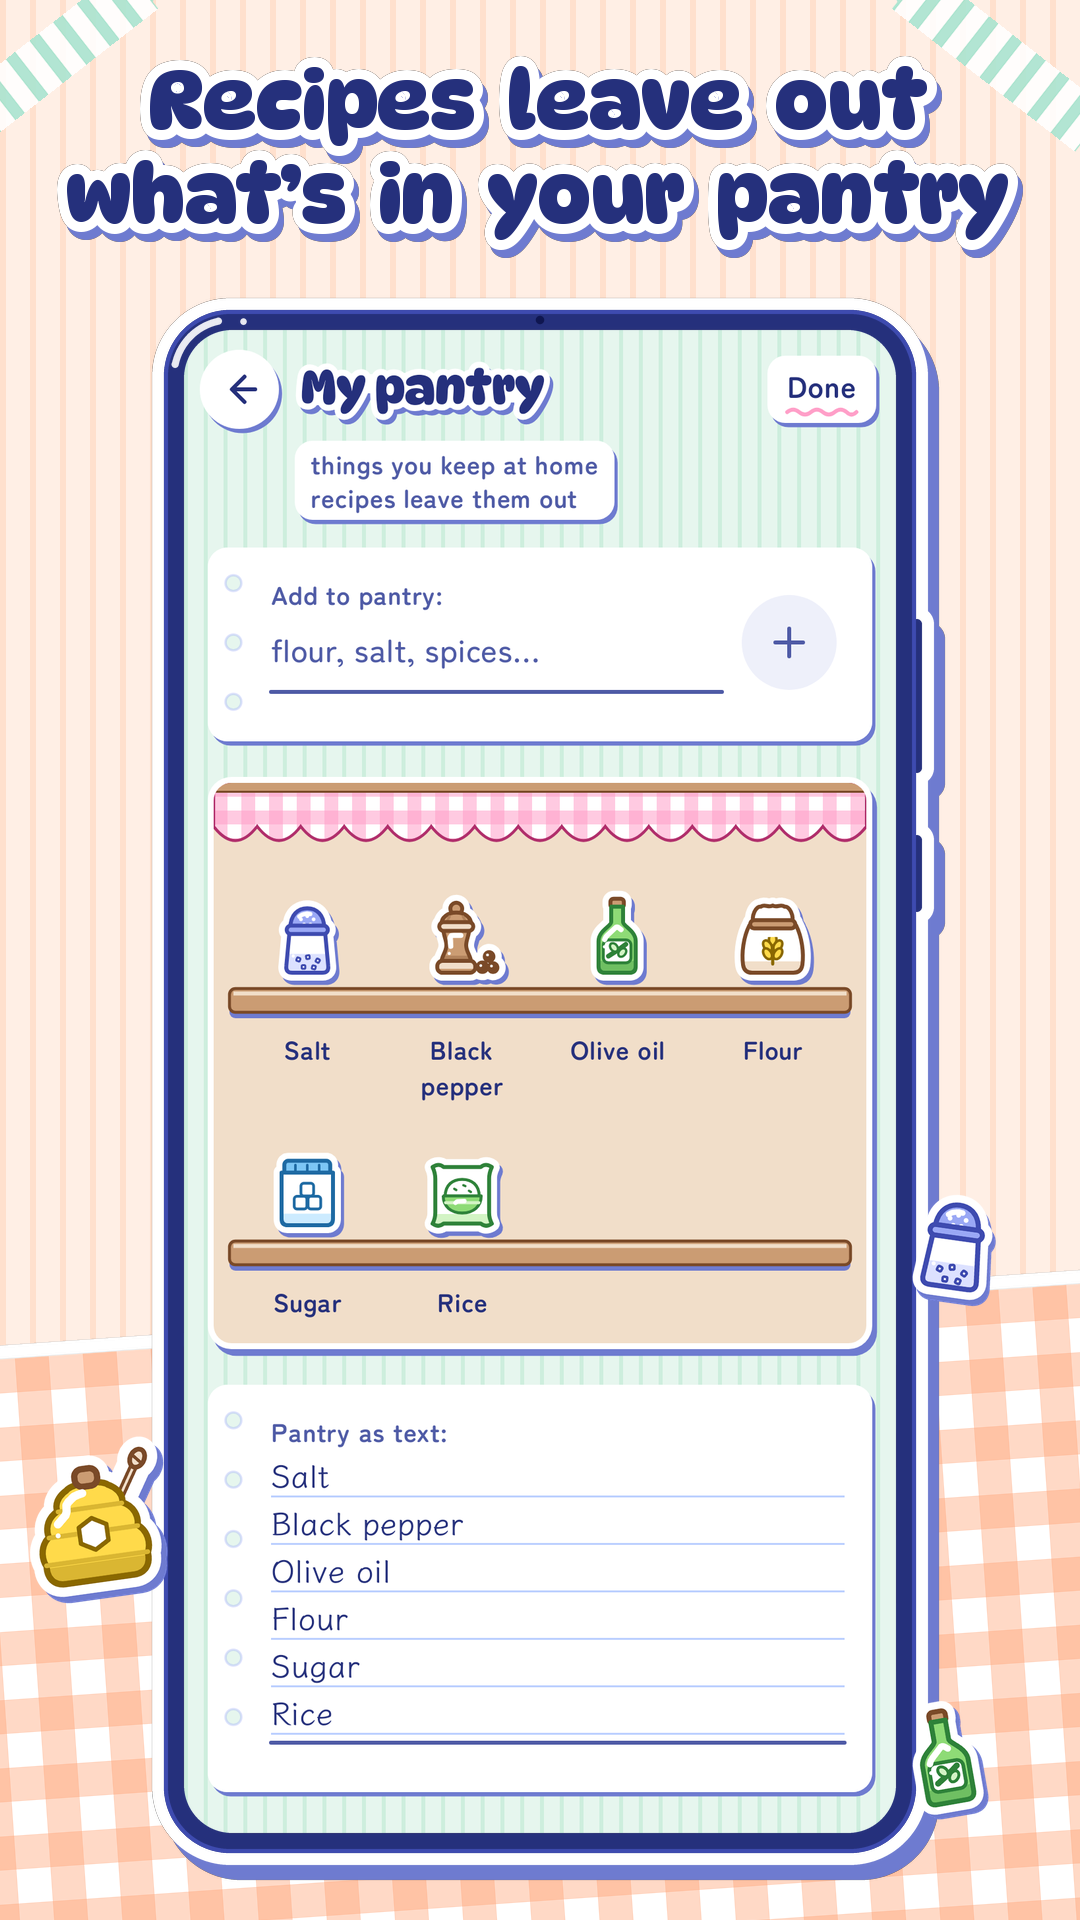
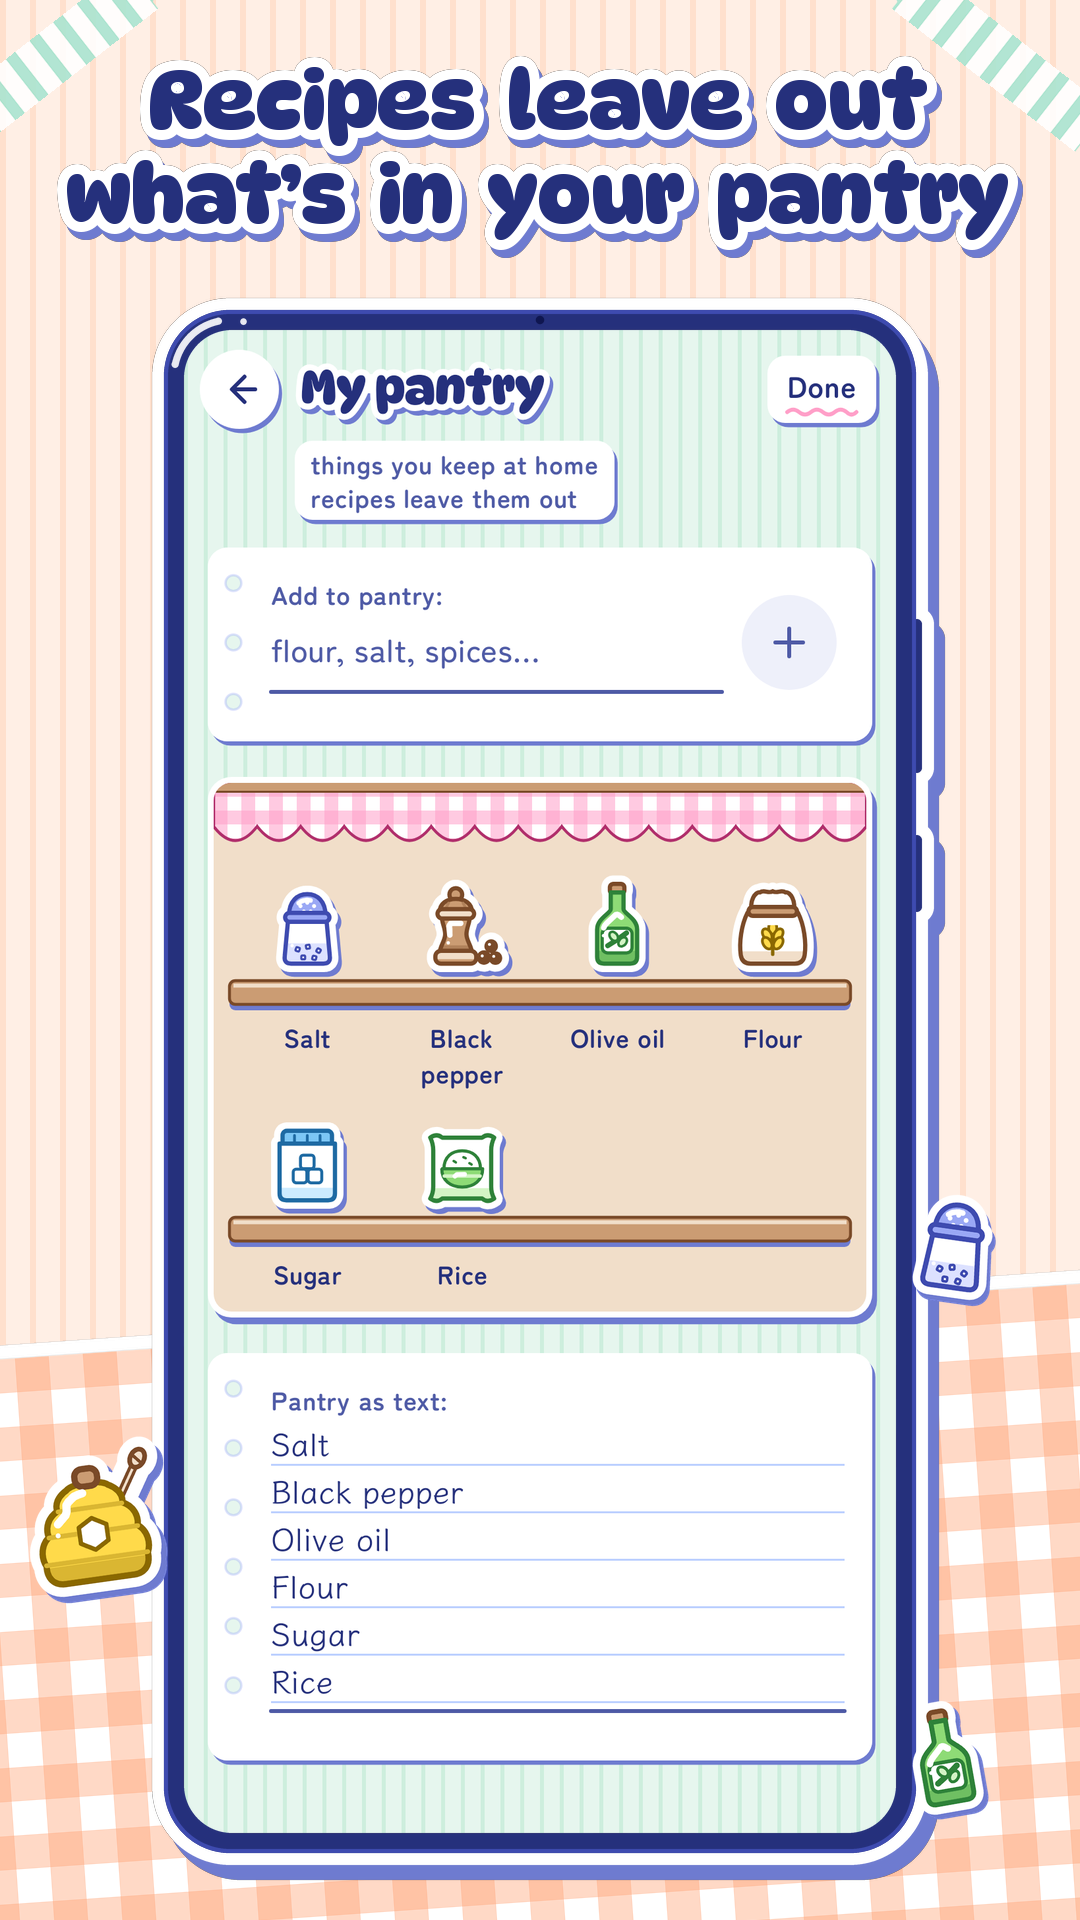
My pantry: tighter shelves, slightly bigger stickers
Cora (5 October): the shelf view left a little too much negative space. Shelf stickers go from 52 to 56 dp with 4 dp of headroom (the slot was 64 dp), the names sit 4 dp under the board (was 6) and the shelf ends 4 dp under them (was 6), so a name and the next shelf's stickers are about 12 dp apart instead of about 30. Pantry goldens and the pantry store screenshot re-recorded; spec §6.13 updated.

Claude-Session: https://claude.ai/code/session_01Vpb3GoPLjRj6tPR1LHwpfW

Changed region(s): [[0.1833, 0.4375, 0.825, 0.9375]]

diff --git a/app/src/main/kotlin/earth/cora/picnic/ui/pantry/PantryScreen.kt b/app/src/main/kotlin/earth/cora/picnic/ui/pantry/PantryScreen.kt
@@ -168,7 +168,7 @@ fun PantryRoute(vm: PantryViewModel, onBack: () -> Unit) {
 /**
  * My pantry (§6.13): the binder top (Back, "My pantry", its subtitle on a pad patch, "Done"); the "Add to pantry:" field
  * with its strawberry Add sticker button; the shelves in the JAR_SHELF basket's language (a gingham valance, wooden
- * boards, stickers standing on them at 52 dp with their names under the board, 4 per shelf, 5 from 412 dp); a tap opens
+ * boards, stickers standing on them at 56 dp with their names under the board, 4 per shelf, 5 from 412 dp); a tap opens
  * the pop card ("Take off the shelf", "Change sticker"); "Pantry as text:" (Klee One, ruled) previews the shelves as she
  * types and commits on Done or blur. Empty: a dusty shelf, the line and four suggestion chips.
  */
@@ -431,16 +431,18 @@ private fun Shelf(
     popCard: @Composable (ShelfSticker) -> Unit,
     sticker: @Composable (ShelfSticker) -> Unit,
 ) {
-    Column(Modifier.fillMaxWidth().padding(bottom = 6.dp)) {
+    // Tight (Cora, 5 October): 4 dp of headroom over a 56 dp sticker, 4 dp from the board to its names and 4 dp under
+    // them, so a name and the next shelf's stickers sit about 12 dp apart.
+    Column(Modifier.fillMaxWidth().padding(bottom = 4.dp)) {
         Row(Modifier.fillMaxWidth()) {
             for (i in 0 until perShelf) {
-                Box(Modifier.weight(1f).height(64.dp), contentAlignment = Alignment.BottomCenter) {
+                Box(Modifier.weight(1f).height(60.dp), contentAlignment = Alignment.BottomCenter) {
                     row.getOrNull(i)?.let { sticker(it) }
                 }
             }
         }
         Board()
-        Row(Modifier.fillMaxWidth().padding(top = 6.dp)) {
+        Row(Modifier.fillMaxWidth().padding(top = 4.dp)) {
             for (i in 0 until perShelf) {
                 Box(Modifier.weight(1f).padding(horizontal = 2.dp), contentAlignment = Alignment.TopCenter) {
                     val name = row.getOrNull(i)?.name
@@ -507,7 +509,7 @@ private fun Board(modifier: Modifier = Modifier) {
 }
 
 /**
- * One shelf sticker: 52 dp, standing on the board; new ones magic-appear, a name added again pops (.9 → 1.1 → 1, 400 ms).
+ * One shelf sticker: 56 dp, standing on the board; new ones magic-appear, a name added again pops (.9 → 1.1 → 1, 400 ms).
  * A tap opens the pop card; TalkBack: a button "Salt, in your pantry" with "Take off the shelf" and "Change sticker".
  */
 @Composable
@@ -550,7 +552,7 @@ private fun ShelfStickerView(
         contentAlignment = Alignment.BottomCenter,
     ) {
         MagicAppearBox(key = sticker.key, play = fresh, onPlayed = onAppeared, modifier = Modifier.graphicsLayer { scaleX = pop.value; scaleY = pop.value }) {
-            ItemIcon(sticker.icon, contentDescription = null, size = 52.dp, drawing = sticker.busy)
+            ItemIcon(sticker.icon, contentDescription = null, size = 56.dp, drawing = sticker.busy)
         }
     }
 }

diff --git a/docs/DESIGN_STICKER.md b/docs/DESIGN_STICKER.md
@@ -869,7 +869,7 @@ What she keeps at home. One pantry for the whole app (it is her kitchen, not a l
 - **Ways in**: the overflow menu ("My pantry", jar glyph, between "My store & aisles" and "Sticker album"); "Edit my pantry" on the recipe card (§4.17); the Edit sheet's toggle adds from a list row (§6.3).
 - **App bar**: Back, title "My pantry", subtitle "things you keep at home · recipes leave them out" (on a pad patch, §2), text button "Done".
 - **Add field**: an inline ruled field "Add to pantry:" with the hint "flour, salt, spices…" and a 48 dp strawberry Add sticker button; Enter adds. Commas, new lines and " and " split entries (`OfflineParser` splitting, no AI); quantities are dropped ("2 kg flour" → "Flour"); each entry is capitalised like an item name. A name already there (after `normalizeName`) is not added twice: its sticker pops on the shelf (the §6.2 pop) and the toast says "Salt is already in your pantry".
-- **The shelves**: the `JAR_SHELF` basket's language at full width: a gingham curtain valance across the top, then wooden shelves (peach-brown mid with a light top edge and a 3 dp hard shadow under each board), stickers standing on them at 52 dp with the name under each (Zen Maru 700 13 sp, two lines, centred). Four per shelf at 360 dp wide, five at 412 dp and up; shelves are added as needed and scroll with the page. Order = the order of the text (below). A new entry lands with the book's magic-appear (§8), never a flight.
+- **The shelves**: the `JAR_SHELF` basket's language at full width: a gingham curtain valance across the top, then wooden shelves (peach-brown mid with a light top edge and a 3 dp hard shadow under each board), stickers standing on them at 56 dp with the name under each (Zen Maru 700 13 sp, two lines, centred), packed close (Cora, 5 October: "a little too much negative space"): 4 dp of headroom over the stickers, 4 dp from the board to the names and 4 dp under them. Four per shelf at 360 dp wide, five at 412 dp and up; shelves are added as needed and scroll with the page. Order = the order of the text (below). A new entry lands with the book's magic-appear (§8), never a flight.
 - **Tapping a sticker** opens a small kiss-cut pop card (as the overflow menu): "Take off the shelf" (removes it; toast "Salt is off your pantry shelf" with Undo) and "Change sticker" (the Edit sheet's sticker grid). TalkBack: each sticker is a button "Salt, in your pantry", with custom actions "Take off the shelf" and "Change sticker".
 - **"Pantry as text:"** the raw multi-line ruled field under the shelves (Klee One 16 / 24 sp), one entry per line. It is the source of the order. Editing it previews the shelves live (debounced 400 ms) and commits on Done or when the field loses focus (`setPantryText`); a line with commas becomes several entries on commit.
 - **Pantry stickers**: the learned icon override for that name if there is one (`iconOverrideMap()`), else the local alias match (`localIcon`), else, with a key set, the IconDecider's answer (one batched call when the screen commits, the capsule while it waits), else the category generic or the capsule (D5). Pantry entries **never** start a live drawing and never call the network without a key.
